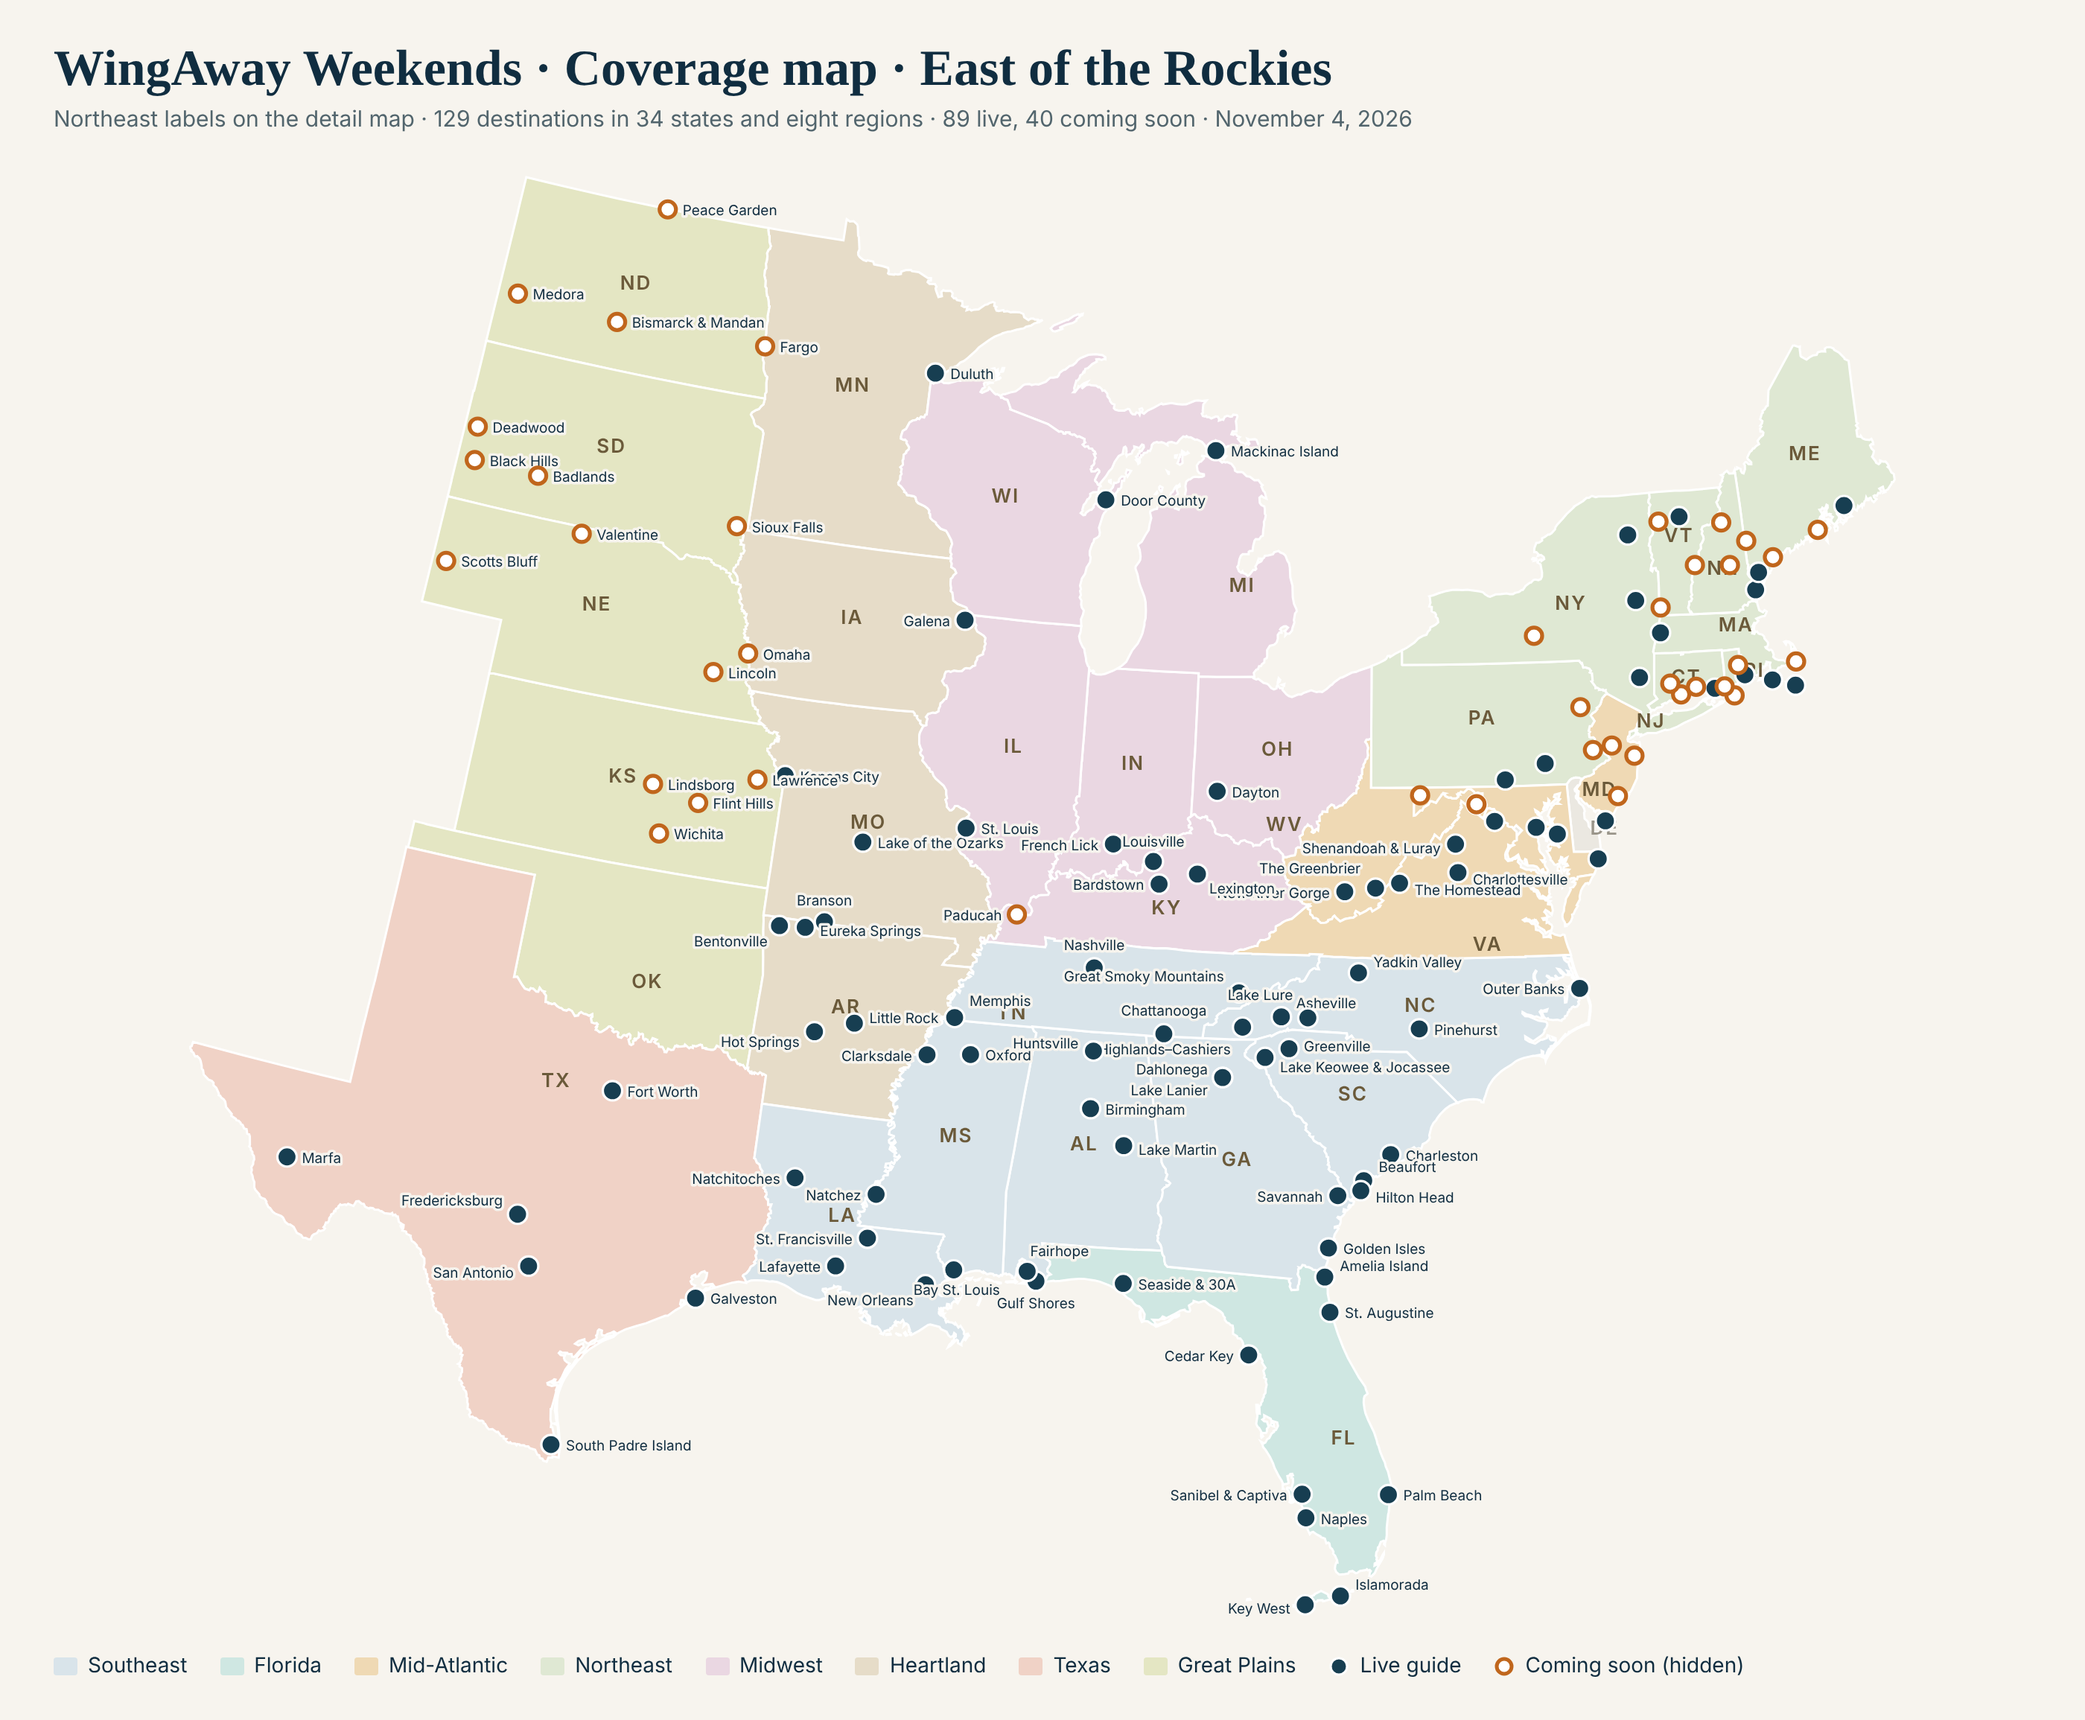
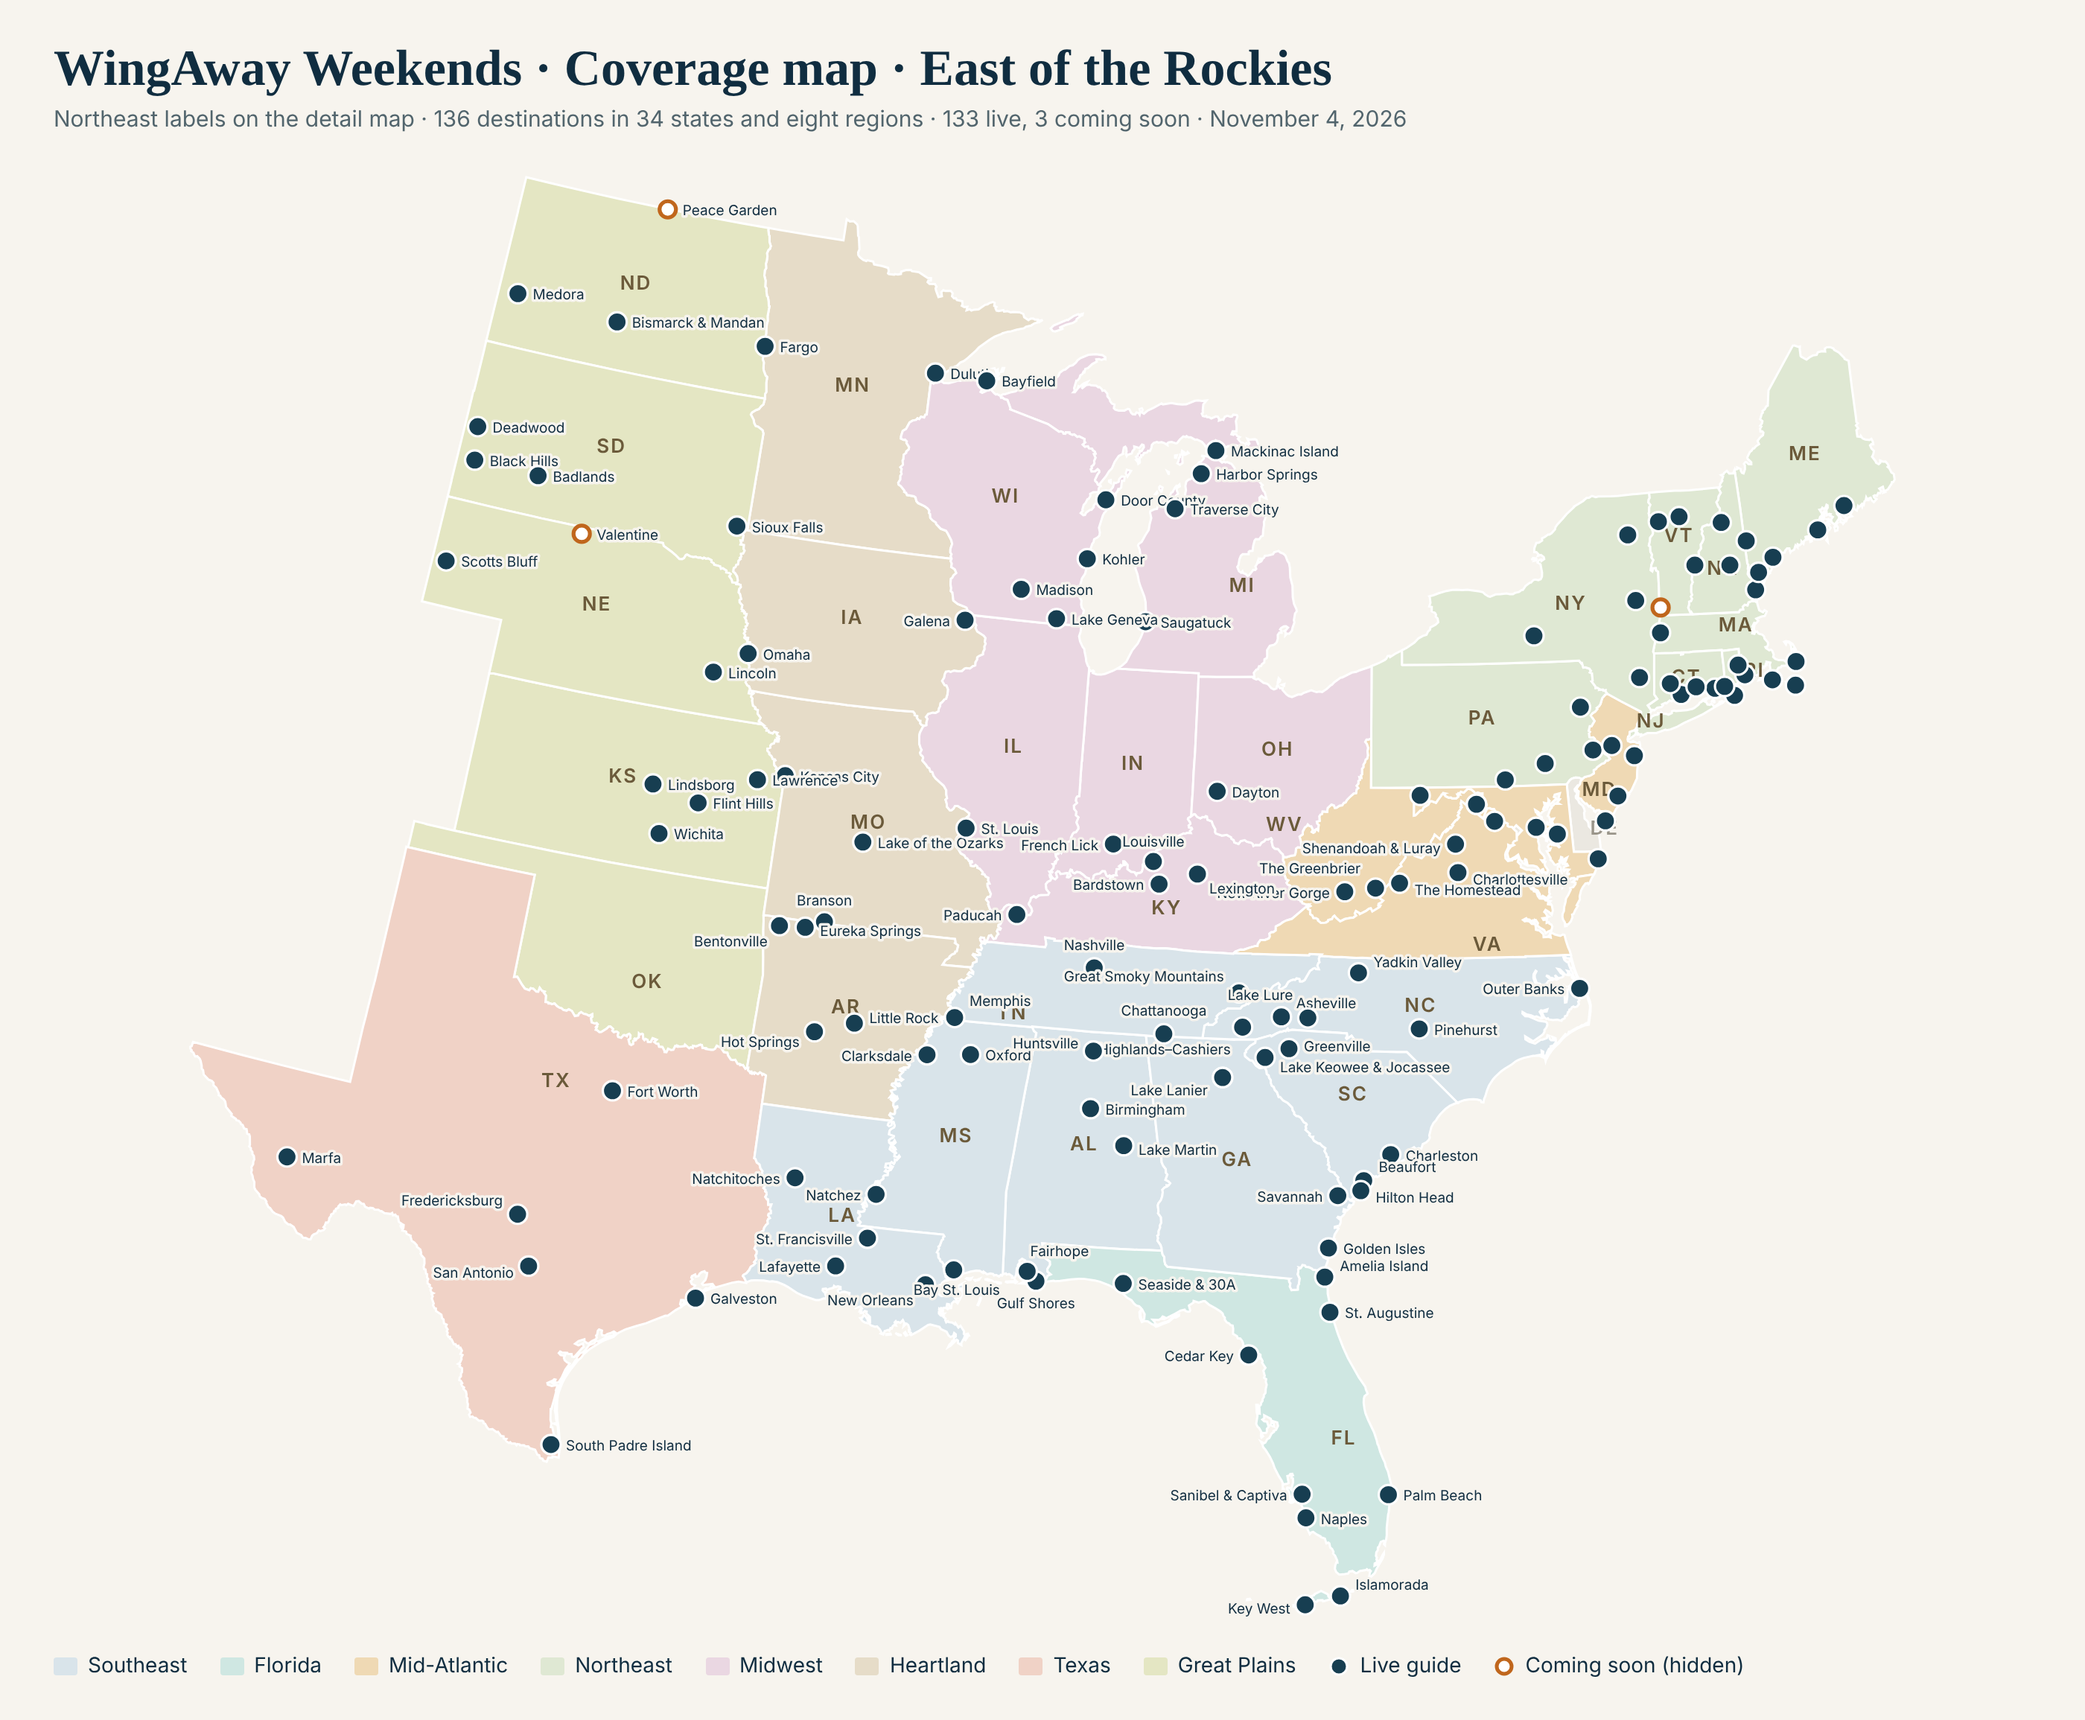
Coverage map update (133 live); Valentine Sandhills photo options
Claude-Session: https://claude.ai/code/session_017dQ1w3w69qo95A7qDuxrBg

diff --git a/docs/photo-options/index.html b/docs/photo-options/index.html
@@ -1,5 +1,11 @@
 <!doctype html><html><head><meta charset="utf-8"><meta name="robots" content="noindex"><meta name="viewport" content="width=device-width,initial-scale=1"><title>Photo options</title>
 <style>body{font-family:system-ui,sans-serif;margin:16px;background:#f6f7f8;color:#102d40}h2{margin:28px 0 10px}.g{display:grid;grid-template-columns:repeat(auto-fill,minmax(240px,1fr));gap:12px}figure{margin:0;background:#fff;border:1px solid #dbe3e9;border-radius:6px;overflow:hidden}img{width:100%;aspect-ratio:4/3;object-fit:cover;display:block}figcaption{padding:8px 10px;font-size:13px;line-height:1.4}b{font-size:18px;margin-right:6px}.note{color:#526471}</style></head><body>
+<h1 id="valentine">Valentine: Sandhills options</h1><p>Nothing in the free photo libraries is from Valentine itself. These Library of Congress photos are the Nebraska Sandhills that surround it: L1–L3 are in Hooker and Grant counties, about 100 miles west; L4 is a windmill near Merriman, in Valentine’s own Cherry County. The caption would say where each was taken. Reply like “Valentine L1”.</p><div class="g">
+<figure><img src="https://tile.loc.gov/storage-services/service/pnp/highsm/69600/69641r.jpg" loading="lazy" alt=""><figcaption><b>L1</b>Scene in Hooker County in the vast Nebraska sandhills<br><span class="note">Carol M. Highsmith · Library of Congress</span></figcaption></figure>
+<figure><img src="https://tile.loc.gov/storage-services/service/pnp/highsm/69700/69717r.jpg" loading="lazy" alt=""><figcaption><b>L2</b>Scene in Grant County in the vast Nebraska sandhills<br><span class="note">Carol M. Highsmith · Library of Congress</span></figcaption></figure>
+<figure><img src="https://tile.loc.gov/storage-services/service/pnp/highsm/69600/69639r.jpg" loading="lazy" alt=""><figcaption><b>L3</b>Scene in Grant County in the vast Nebraska sandhills<br><span class="note">Carol M. Highsmith · Library of Congress</span></figcaption></figure>
+<figure><img src="https://tile.loc.gov/storage-services/service/pnp/highsm/69500/69572r.jpg" loading="lazy" alt=""><figcaption><b>L4</b>Windmill on a desolate field in mid-December, near Merriman in Cherry County, Nebraska<br><span class="note">Carol M. Highsmith · Library of Congress</span></figcaption></figure>
+</div>
 <h1 id="wh">Watch Hill: a confirmed option</h1><p>None of the Unsplash Watch Hill photos were actually taken at Watch Hill (they were Newport, Narragansett, Point Judith and Block Island). This Library of Congress photo is. Reply “Watch Hill L1” to use it.</p><div class="g"><figure><img src="https://tile.loc.gov/image-services/iiif/service:pnp:highsm:11900:11959/full/pct:12.5/0/default.jpg" loading="lazy" alt=""><figcaption><b>L1</b>Sunset at Watch Hill, Rhode Island<br><span class="note">Carol M. Highsmith · Library of Congress</span></figcaption></figure></div>
 <h1 id="mwgp">New options: Michigan, Wisconsin and Great Plains (Unsplash)</h1><p>Unsplash search results, numbered. Search results are not always the right place, so I check each pick’s location before applying it. Reply like “Traverse City 3, Kohler 7”.</p>
 <h2>Traverse City</h2><div class="g">
